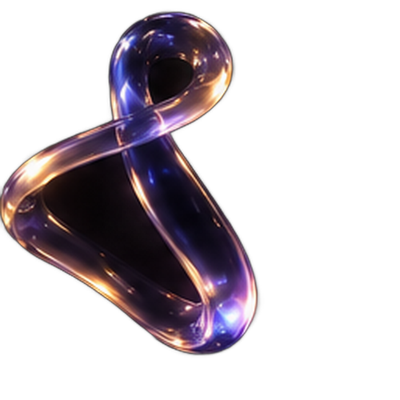
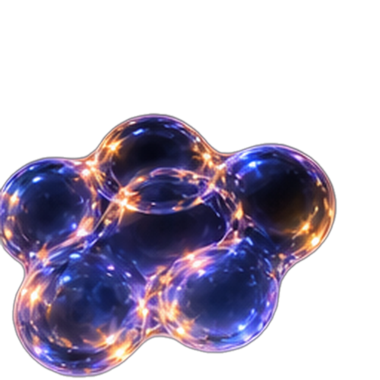
Replace all blobs with cleaner cutouts, expand to true sitewide wallpaper
- New 16-blob set from the latest reference image, processed with an
  improved cutout technique (mask cleanup, speckle removal, edge
  smoothing) - much cleaner than the previous 8
- Service icons re-cut with the same technique
- FloatingBlobs component simplified to a single fixed opacity/blur
  used everywhere - no more per-section brightness variation, so the
  whole page reads as one consistent environment
- Every section now has 3-4 blobs instead of 2 (Hero has 10) -
  Featured Work also got its own blob layer, previously had none
- Old hero blob-2 (the one with the rough/uncropped edge) is gone,
  replaced entirely by the new curated set

diff --git a/src/pages/Home.tsx b/src/pages/Home.tsx
@@ -35,6 +35,14 @@ import blob4 from "@/assets/v3/blob-4.png";
 import blob5 from "@/assets/v3/blob-5.png";
 import blob6 from "@/assets/v3/blob-6.png";
 import blob7 from "@/assets/v3/blob-7.png";
+import blob8 from "@/assets/v3/blob-8.png";
+import blob9 from "@/assets/v3/blob-9.png";
+import blob10 from "@/assets/v3/blob-10.png";
+import blob11 from "@/assets/v3/blob-11.png";
+import blob12 from "@/assets/v3/blob-12.png";
+import blob13 from "@/assets/v3/blob-13.png";
+import blob14 from "@/assets/v3/blob-14.png";
+import blob15 from "@/assets/v3/blob-15.png";
 
 const processSteps = [
   { n: "01", step: "Discover", img: tileDiscover },
@@ -87,26 +95,25 @@ function SculptureIcon({ img, alt, className = "" }: { img: string; alt: string;
   );
 }
 
-const allBlobs = [blob0, blob1, blob2, blob3, blob4, blob5, blob6, blob7];
+const allBlobs = [
+  blob0, blob1, blob2, blob3, blob4, blob5, blob6, blob7,
+  blob8, blob9, blob10, blob11, blob12, blob13, blob14, blob15,
+];
 
-/** Scattered abstract glass blobs used as ambient background texture across sections - not just the hero. */
+/** Scattered abstract glass blobs used as a consistent wallpaper texture across every section - same opacity and blur everywhere so the whole page reads as one continuous environment. */
 function FloatingBlobs({
   positions,
-  opacity = 0.5,
-  blur = "blur-sm",
 }: {
   positions: { blob: number; top: string; left: string; size: string; delay?: string }[];
-  opacity?: number;
-  blur?: string;
 }) {
   return (
-    <div className="pointer-events-none absolute inset-0 overflow-hidden" style={{ opacity }} aria-hidden>
+    <div className="pointer-events-none absolute inset-0 overflow-hidden opacity-40" aria-hidden>
       {positions.map((p, i) => (
         <img
           key={i}
           src={allBlobs[p.blob % allBlobs.length]}
           alt=""
-          className={`float-slow absolute ${p.size} ${blur}`}
+          className={`float-slow absolute ${p.size} blur-[3px]`}
           style={{ top: p.top, left: p.left, animationDelay: p.delay ?? "0s" }}
         />
       ))}
@@ -130,8 +137,6 @@ export default function Home() {
         />
         {/* scattered abstract glass blobs across the hero, less blurred and brighter than before */}
         <FloatingBlobs
-          opacity={0.8}
-          blur="blur-[2px]"
           positions={[
             { blob: 0, top: "8%", left: "6%", size: "w-20 sm:w-28" },
             { blob: 1, top: "38%", left: "22%", size: "w-24 sm:w-32", delay: "2s" },
@@ -141,6 +146,8 @@ export default function Home() {
             { blob: 5, top: "30%", left: "62%", size: "w-20 sm:w-28", delay: "5s" },
             { blob: 6, top: "78%", left: "30%", size: "w-16 sm:w-20", delay: "2.5s" },
             { blob: 7, top: "5%", left: "26%", size: "w-14 sm:w-20", delay: "3.5s" },
+            { blob: 8, top: "45%", left: "80%", size: "w-16 sm:w-24", delay: "1.5s" },
+            { blob: 9, top: "82%", left: "70%", size: "w-14 sm:w-20", delay: "4.5s" },
           ]}
         />
 
@@ -196,6 +203,12 @@ export default function Home() {
               "radial-gradient(55% 45% at 85% 15%, color-mix(in oklab, var(--champagne) 6%, transparent), transparent 70%), radial-gradient(50% 40% at 10% 85%, color-mix(in oklab, var(--iris) 6%, transparent), transparent 70%)",
           }}
           aria-hidden
+        />
+        <FloatingBlobs
+          positions={[
+            { blob: 15, top: "3%", left: "10%", size: "w-14" },
+            { blob: 1, top: "92%", left: "85%", size: "w-16", delay: "2.5s" },
+          ]}
         />
         <Reveal className="flex flex-wrap items-end justify-between gap-6">
           <div>
@@ -270,11 +283,11 @@ export default function Home() {
                 aria-hidden
               />
               <FloatingBlobs
-                opacity={0.25}
-                blur="blur-md"
                 positions={[
-                  { blob: 2, top: "5%", left: "88%", size: "w-16" },
-                  { blob: 5, top: "75%", left: "3%", size: "w-14", delay: "2s" },
+                  { blob: 10, top: "5%", left: "88%", size: "w-16" },
+                  { blob: 11, top: "75%", left: "3%", size: "w-14", delay: "2s" },
+                  { blob: 12, top: "40%", left: "50%", size: "w-16", delay: "3.5s" },
+                  { blob: 13, top: "85%", left: "60%", size: "w-14", delay: "1s" },
                 ]}
               />
               <div className="relative grid grid-cols-3 gap-4 sm:grid-cols-6">
@@ -313,11 +326,11 @@ export default function Home() {
               aria-hidden
             />
             <FloatingBlobs
-              opacity={0.22}
-              blur="blur-md"
               positions={[
-                { blob: 1, top: "8%", left: "5%", size: "w-14" },
-                { blob: 4, top: "80%", left: "92%", size: "w-16", delay: "3s" },
+                { blob: 14, top: "8%", left: "5%", size: "w-14" },
+                { blob: 15, top: "80%", left: "92%", size: "w-16", delay: "3s" },
+                { blob: 0, top: "85%", left: "15%", size: "w-14", delay: "2s" },
+                { blob: 3, top: "10%", left: "80%", size: "w-14", delay: "4s" },
               ]}
             />
             <div
@@ -352,11 +365,10 @@ export default function Home() {
               aria-hidden
             />
             <FloatingBlobs
-              opacity={0.2}
-              blur="blur-md"
               positions={[
-                { blob: 7, top: "10%", left: "90%", size: "w-16" },
-                { blob: 3, top: "82%", left: "8%", size: "w-14", delay: "2.5s" },
+                { blob: 5, top: "10%", left: "90%", size: "w-16" },
+                { blob: 6, top: "82%", left: "8%", size: "w-14", delay: "2.5s" },
+                { blob: 8, top: "55%", left: "45%", size: "w-14", delay: "1.5s" },
               ]}
             />
             <div className="relative grid items-center gap-14 lg:grid-cols-2">
@@ -393,11 +405,10 @@ export default function Home() {
           aria-hidden
         />
         <FloatingBlobs
-          opacity={0.2}
-          blur="blur-md"
           positions={[
-            { blob: 6, top: "12%", left: "6%", size: "w-14" },
-            { blob: 0, top: "78%", left: "94%", size: "w-16", delay: "3.5s" },
+            { blob: 9, top: "12%", left: "6%", size: "w-14" },
+            { blob: 10, top: "78%", left: "94%", size: "w-16", delay: "3.5s" },
+            { blob: 11, top: "50%", left: "40%", size: "w-14", delay: "2s" },
           ]}
         />
         <div className="grid items-center gap-14 lg:grid-cols-2">
@@ -454,11 +465,10 @@ export default function Home() {
           aria-hidden
         />
         <FloatingBlobs
-          opacity={0.18}
-          blur="blur-md"
           positions={[
-            { blob: 2, top: "15%", left: "45%", size: "w-14" },
-            { blob: 7, top: "70%", left: "55%", size: "w-16", delay: "2s" },
+            { blob: 12, top: "15%", left: "45%", size: "w-14" },
+            { blob: 13, top: "70%", left: "55%", size: "w-16", delay: "2s" },
+            { blob: 14, top: "40%", left: "15%", size: "w-14", delay: "3s" },
           ]}
         />
         <div className="relative mx-auto max-w-5xl px-6 py-28 text-center lg:px-10 lg:py-40">
